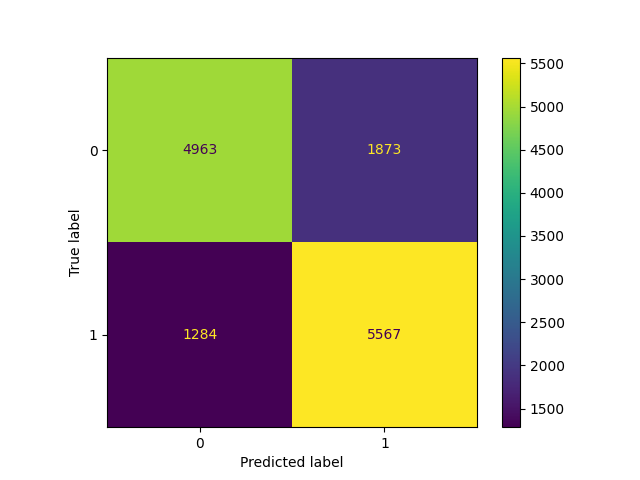
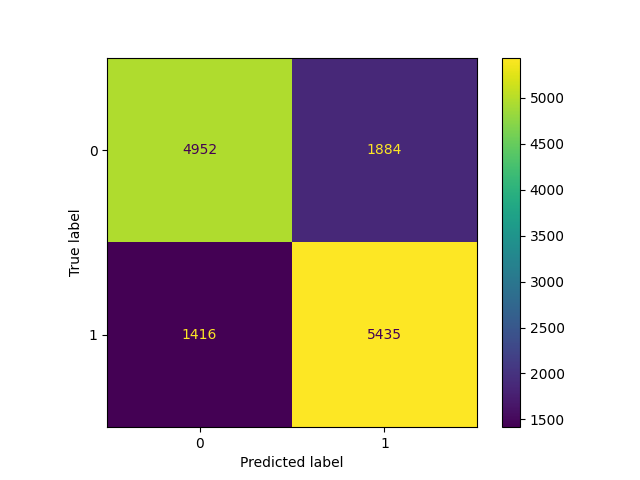
Package baseline model 0.1

diff --git a/Models/model/preprocess.py b/Models/model/preprocess.py
@@ -16,7 +16,6 @@ REPLACE_VALUES = {
                   'Asthma': {'No':0,'Yes':1},
                   'KidneyDisease': {'No':0,'Yes':1},
                   'SkinCancer': {'No':0,'Yes':1},
-                  'Sex': {'Male':0,'Female':1},
                   'AgeCategory': {'18-24':0,'25-29':1,'30-34':2,'35-39':3,
                                   '40-44':4,'45-49':5,'50-54':6,'55-59':7,
                                   '60-64':8,'65-69':9,'70-74':10,

diff --git a/Models/model/Assests/metrics.md b/Models/model/Assests/metrics.md
@@ -1,4 +1,4 @@
 |    | Dataset   |   Accuracy |   Precision |   Recall |   F1-Score |   ROU-AUC-SCORE |
 |---:|:----------|-----------:|------------:|---------:|-----------:|----------------:|
-|  0 | Training  |       0.78 |        0.75 |     0.83 |       0.79 |            0.78 |
-|  1 | Testing   |       0.77 |        0.75 |     0.81 |       0.78 |            0.77 |
+|  0 | Training  |       0.77 |        0.74 |     0.81 |       0.78 |            0.77 |
+|  1 | Testing   |       0.76 |        0.74 |     0.79 |       0.77 |            0.76 |
